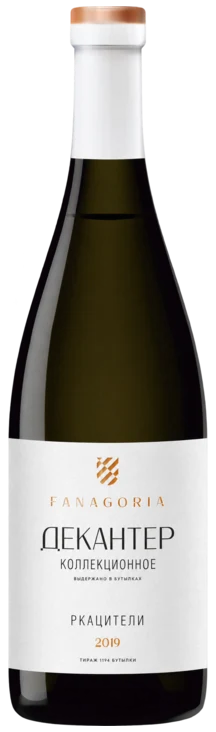
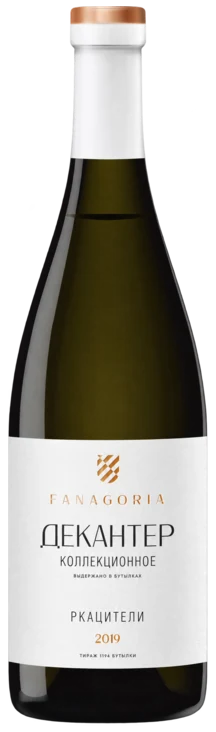
fix(webui): remove Decanter Rkatsiteli background remnants

diff --git a/webui/docs/validation/product-image-cutouts.md b/webui/docs/validation/product-image-cutouts.md
@@ -44,7 +44,7 @@ Faint transparent outliers can leave an excessively wide image frame.
 A frame from alpha values of at least 128 removes these outer fields from the crop calculation.
 The crop adds 8 source pixels around that frame. The crop does not change alpha values inside the frame.
 The conversion fits the cropped image into 720 px height. The conversion adds 6 px transparent padding on every side.
-WebP uses quality 88 and alpha quality 100. The 82 files total 2,149,084 bytes.
+WebP uses quality 88 and alpha quality 100. The 82 files total 2,149,756 bytes after the Rkatsiteli correction below.
 This conversion preserves the generated alpha and reduces mobile transfer size.
 
 ## Rejected source photos
@@ -95,3 +95,22 @@ Each producer has a separate image commit. The branch was not pushed.
 | `koktebel` | `bbb06f3a` |
 | `fanagoria` | `d6b82dd6` |
 | `kuban-vino` | `6565d343` |
+
+## Fanagoria Rkatsiteli correction, 2026-10-16
+
+The user reported opaque gray and white stripes beside the Decanter Rkatsiteli 2019 bottle.
+The earlier alpha, border and geometry checks did not detect the stripe remnants.
+A new built-in imagegen edit uses the original catalog image from `89aa3780`.
+The producer manifest records the new prompt and hashes. It retains the rejected derivative under `superseded_outputs`.
+The asset URL is unchanged. The new WebP is 20,844 bytes.
+
+Flat light and dark composites show the complete outline at large, desktop and mobile sizes.
+Chromium and WebKit each passed four cases: desktop and mobile in light and dark themes.
+The checks verify the served SHA-256, transparent samples outside the contour, foil and label visibility, selection, portal link and mobile popup return.
+All 65 map and registry tests passed with the full catalog snapshot. The production build passed.
+The local server was rebuilt and restarted on port 18553.
+Read [fanagoria-decanter-cutout.json](fanagoria-decanter-cutout.json) for the saved checks.
+
+Nitro embeds static file size and ETag metadata in the server build.
+Replacing `.output/public` bytes alone can produce an incorrect Content-Length.
+Rebuild the application and restart the local server after an asset replacement.

diff --git a/webui/ResearchLog.md b/webui/ResearchLog.md
@@ -55,6 +55,14 @@ After the fix, four navigations each sent one hit with the title of its own page
 the link, browser Back, the in-page anchor `#implemented`, and `/IDEAS?utm_source=campaign` → `/ideas`.
 Production release `10632011` still has the defect.
 
+## Fanagoria Decanter background remnants, 2026-10-16
+
+The previous Rkatsiteli 2019 cutout contained opaque gray and white stripes outside the right contour.
+The earlier alpha, border and geometry checks did not detect this defect.
+A transparent border can surround an image that still contains an opaque background remnant.
+Regenerate from the original source. Inspect the complete outline on contrasting flat backgrounds.
+Use the original catalog image as the edit target. Do not use the defective derivative as the source.
+
 ## Product image backgrounds, 2026-10-16
 
 An alpha channel alone does not prove that a photo has no background. Three 5000 scene images had only a few transparent corner pixels.
@@ -898,3 +906,11 @@ The product search samples up to eight candidates per idea. It does not prove fu
 An independent code review found an incorrect fixed wine-color reason and overly broad preparation matching.
 Removed the fixed color assertion. Excluded salted fish and pickled mushrooms from baking ideas.
 Try a second candidate when the first detail record becomes unavailable or fails validation.
+
+### Static image metadata, 2026-10-16
+
+Nitro embeds static file size and ETag metadata in the server build.
+An image copied directly into `.output/public` retained its old Content-Length.
+The browser request reported a parse error because the new file body was longer.
+Rebuild the application and restart the server after a public asset replacement.
+The rebuilt server returned the new image hash in both browser engines.

diff --git a/webui/docs/product-line-maps/fanagoria/sources.md b/webui/docs/product-line-maps/fanagoria/sources.md
@@ -112,3 +112,10 @@ Unedited images retain their previous bytes. Original edited-image bytes remain 
 The generic `ona-skazala-da` snapshot photo shows a wedding scene with several bottles labeled WEDDING Bliss.
 The photo does not establish this product package. The map uses the labeled image placeholder.
 The product node and its catalog link remain available. The crosswalk preserves the source filename and hash.
+
+### Rkatsiteli 2019 correction, 2026-10-16
+
+The first Decanter Rkatsiteli 2019 derivative contained opaque stripe remnants beside the bottle.
+A new built-in imagegen edit uses the original catalog image. The asset URL is unchanged.
+The manifest preserves the rejected derivative hashes and prompt under `superseded_outputs`.
+Flat light and dark composites are required in addition to alpha and border checks.

diff --git a/webui/SMOKE_TESTS.md b/webui/SMOKE_TESTS.md
@@ -446,3 +446,8 @@ Select Monte Garu rose semi-sweet. Confirm that the bottle scale matches the oth
 On mobile, open and close the product popup. Confirm that the map position and selection remain unchanged.
 Check one edited image in each of the six producers listed in `docs/validation/product-image-cutouts.md`.
 Check the two source-conflict placeholders. The Fanagoria catalog link remains available. The gray 5000 product still has no portal link.
+
+Open `/lineup/fanagoria?wine=fanagoriya-dekanter-rkatsiteli-2019-beloe-suhoe-135`.
+Check the complete Rkatsiteli 2019 outline on flat light and dark backgrounds.
+Confirm that no opaque gray or white stripe remains outside the right contour.
+Repeat in the desktop detail panel and mobile popup.

diff --git a/webui/ChangeLog.md b/webui/ChangeLog.md
@@ -37,6 +37,13 @@
   Metrika now records the title of the new page, not the title of the previous page (#40).
   Production release `10632011` does not have this fix.
 
+## 2026-10-16 — Fanagoria Decanter background correction
+
+- Regenerate the Rkatsiteli 2019 cutout from the original catalog image.
+- Remove the visible stripe remnants outside the bottle. Keep the existing asset URL.
+- Preserve the rejected output hashes and record the replacement prompt.
+- Pass 65 map tests and eight Chromium and WebKit desktop and mobile checks. Rebuild and restart the local preview.
+
 ## 2026-10-16 — Bottle image validation
 
 - Audit all referenced producer images and document the background-extraction workflow.

diff --git a/webui/CLAUDE.md b/webui/CLAUDE.md
@@ -82,3 +82,4 @@ Run `npm run test:line-map` with the documented browser environment after map in
 An alpha channel does not prove that the background is removed. Inspect alpha coverage and the visible outline.
 Nearly transparent outer pixels can reduce bottle scale under CSS max-width. Verify the final image at the actual desktop and mobile sizes.
 Imagegen display derivatives can change fine print. Keep original hashes and exact prompts in the producer provenance. Do not use generated microtext as product evidence.
+A transparent border can surround an image with opaque stripe remnants. Composite every edited image on flat light and dark backgrounds. Inspect the complete contour before acceptance.
